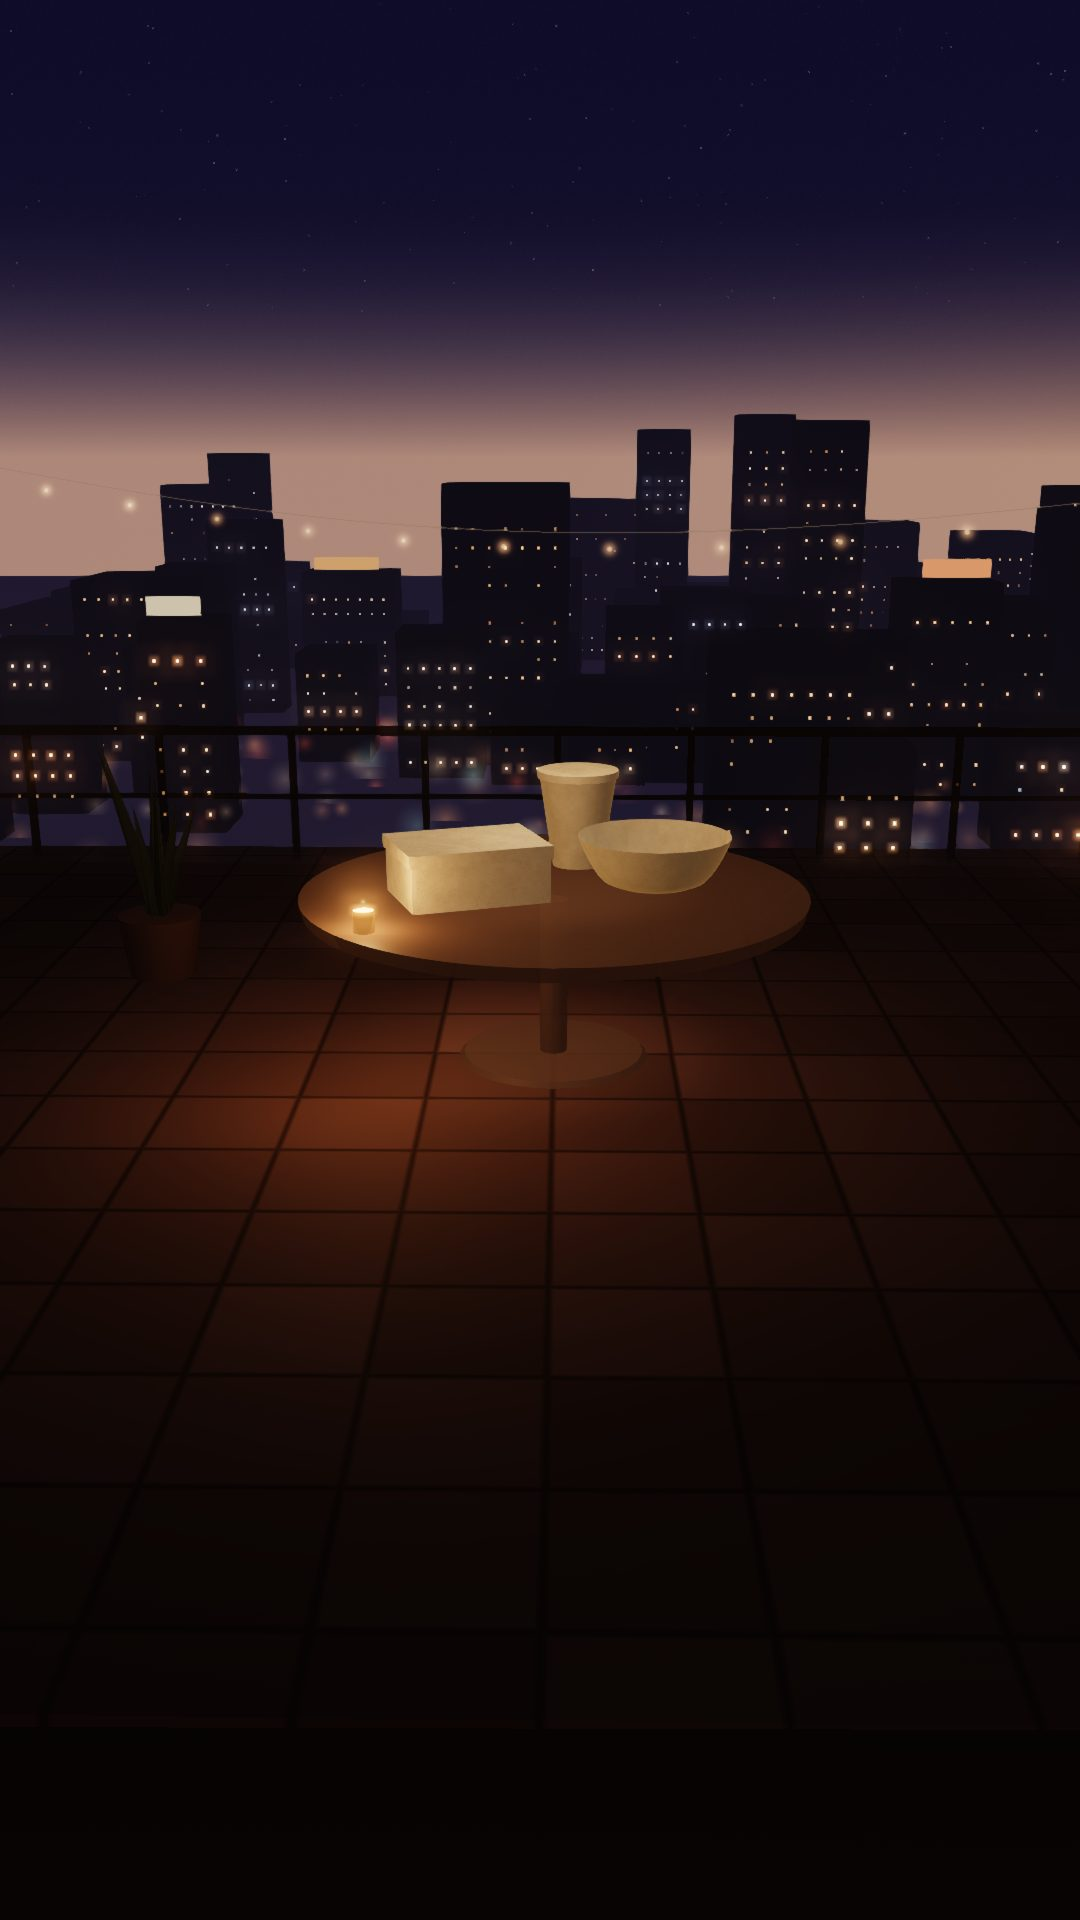
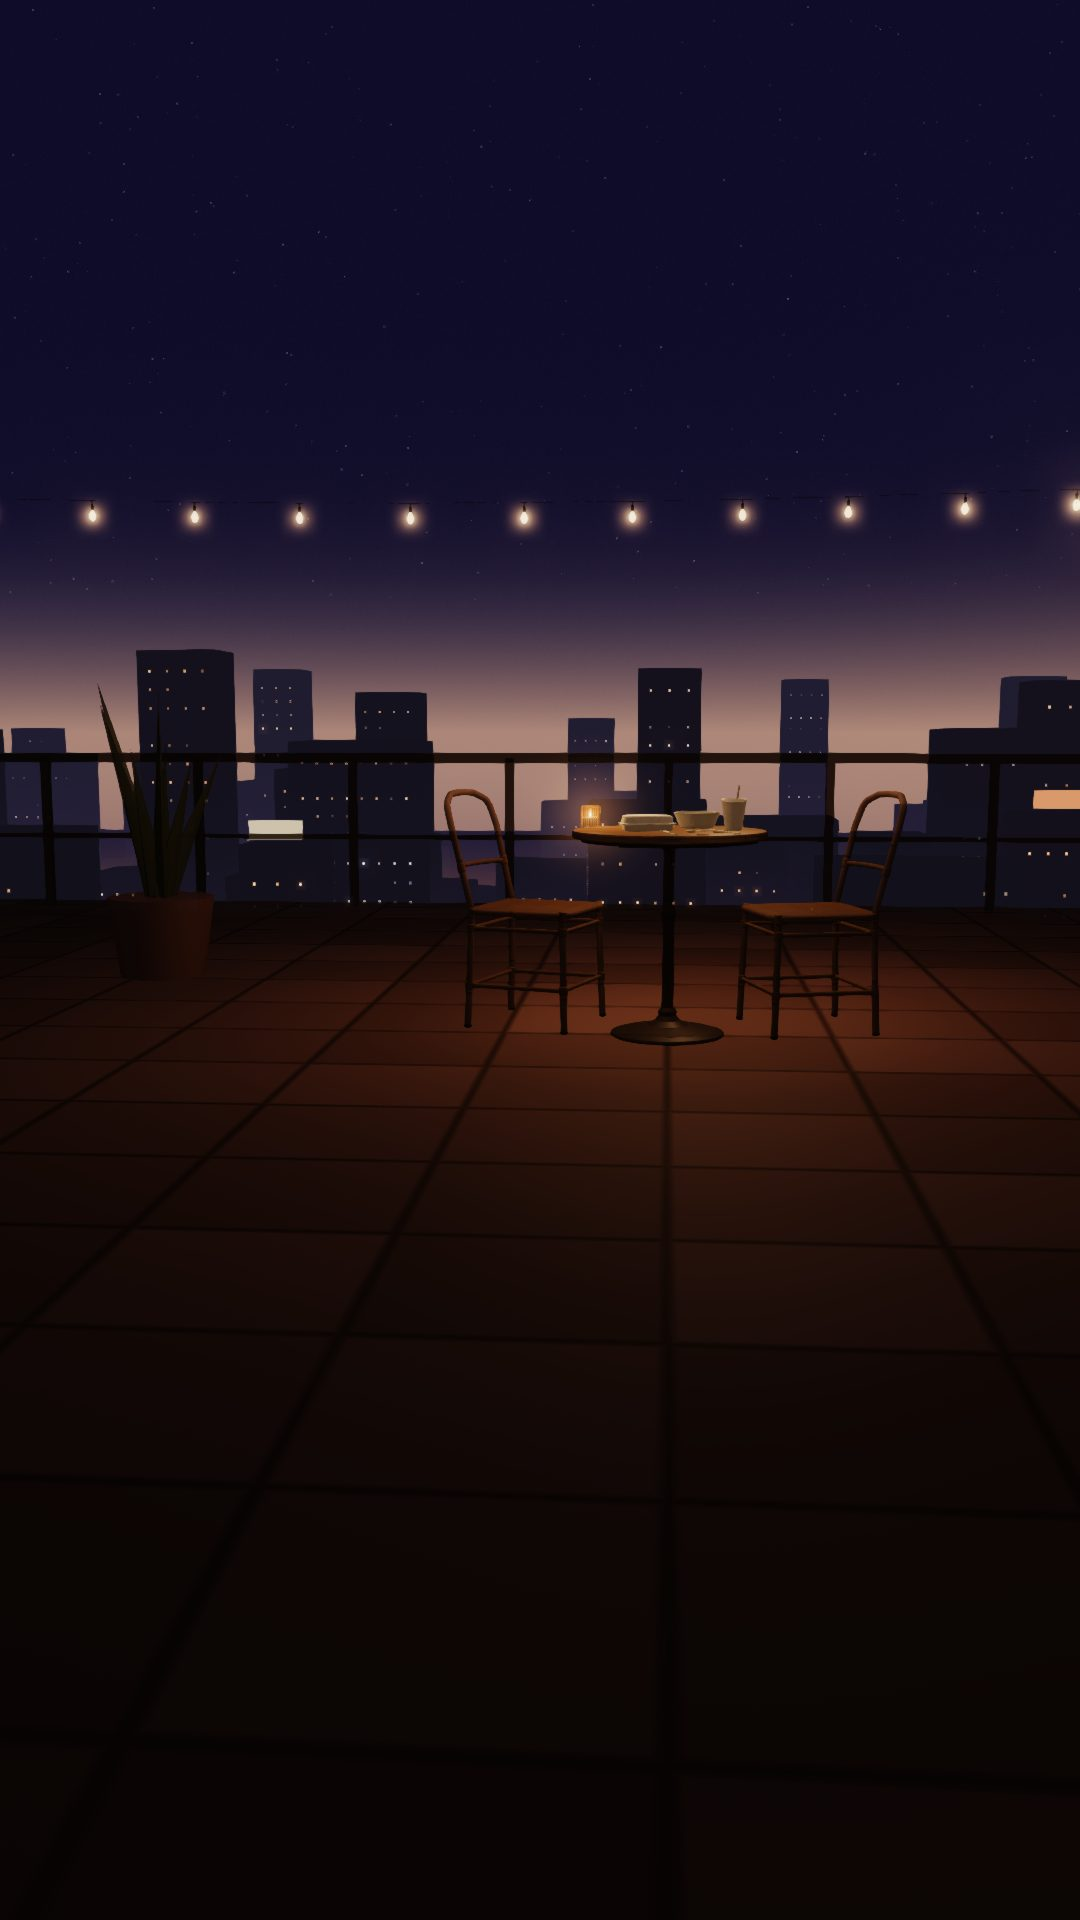
feat: blender models in the film, final renders and stills

diff --git a/README.md b/README.md
@@ -40,7 +40,7 @@ Then open <http://127.0.0.1:5173>. (Opening the files straight from disk does no
 node --test
 ```
 
-The tests cover the prices, bag, shipping and impact maths (`shop.js`), the film timeline (`timeline.js`) and the shared parts every page must have.
+The tests cover the prices, bag, shipping and impact maths (`shop.js`), the film timeline (`timeline.js`), the film tiers and flags (`tiers.js`), the model budget (`tests/models.test.mjs`) and the shared parts every page must have.
 
 ## Deploy on Vercel
 
@@ -51,24 +51,35 @@ The tests cover the prices, bag, shipping and impact maths (`shop.js`), the film
 
 ## Recording the film for the video
 
-The Home film can be switched with a URL flag:
+The Home film picks one of three detail tiers:
+
+- **Low** has no post-processing and fewer particles. Phones, touch devices, narrow screens, devices with 4 GB of memory or less, and integrated GPUs (Intel HD/UHD/Iris, Radeon Vega and `M`-series, Mali, Adreno) start here.
+- **High** is the default on a desktop with a discrete GPU: post-processing, anti-aliasing and about ten times Low's particles.
+- **Ultra** is for recording. It is used only by `?film=video`: no anti-aliasing, about thirty times Low's particles, and the resolution of the capture window.
+
+If frames run slow, the live film steps down one level at a time (High, then High at pixel ratio 1, then Low, then the stills).
+
+The film is switched with URL flags:
 
 - `index.html?film=off` shows the four still images instead of the 3D film.
-- `index.html?film=video` is for screen-capture tools. It turns off anti-aliasing, skips the speed check and stops the scroll loop, so the capture tool draws each frame itself by calling `window.scFilm.render(p, t)` (`p` is scroll progress from 0 to 1, `t` is time in seconds).
+- `index.html?film=video&p=0.37&t=2` is for screen-capture tools. It uses Ultra, skips the speed check, stops the scroll loop and waits until the models and post-processing have loaded. The capture tool then draws each frame itself by calling `window.scFilm.render(p, t)` (`p` is scroll progress from 0 to 1, `t` is time in seconds). `p` and `t` in the URL set the first frame. Add `&tier=low` to capture the phone look.
+- `index.html?film=bench` plays the film from start to end in 20 seconds with no frame skipping and no step-downs, to measure frame times.
 
-The film also turns itself off (and shows the stills) when the visitor prefers reduced motion, the device is too slow (checked at the start and again throughout the visit; it first drops to a lower resolution), WebGL is missing or the Three.js download fails.
+The film also turns itself off (and shows the stills) when the visitor prefers reduced motion, the device is too slow (checked at the start and again throughout the visit), WebGL is missing or the Three.js download fails.
 
-## The still images (ChatGPT step)
+## The 3D models
 
-The stills are SVG placeholders for now. To replace them:
+The hut, the farmer, the packaging (box, bowl, cup, cutlery, straw) and the café (table, chairs, bulbs) are Blender models in `models/*.glb`, loaded by the film. They are built by Python scripts in `blender/` run in Blender without its window, and the `.glb` files are committed, so you only need Blender to change a model. `docs/blender.md` has the setup and the rebuild commands.
 
-1. Open `docs/image-prompts.md` and paste each scene's prompt into ChatGPT.
-2. Save each scene twice: a 16:9 image as `images/scene-N.jpg` and a 9:16 image as `images/scene-N-tall.jpg` (N is 1 to 4). Keep each under about 300 KB.
-3. That's it. The page uses the JPGs when they exist and falls back to `images/scene-N.svg` when they don't.
+`tests/models.test.mjs` keeps the models inside their budget (1.5 MB and 200,000 triangles in total) and checks the node names the film looks up. A model that fails to load is left out and the film still plays.
+
+## The still images
+
+The stills are renders of the Ultra film at four points (`p` 0.12, 0.37, 0.62 and 0.95): a 16:9 image as `images/scene-N.jpg` and a 9:16 image as `images/scene-N-tall.jpg` (N is 1 to 4), each under about 350 KB. To replace them, capture `?film=video&p=...` at 1920×1080 and 1080×1920 and save the JPGs under those names. The page falls back to `images/scene-N.svg` if a JPG is missing.
 
 ## Credits
 
 - [Three.js](https://threejs.org) r170 (MIT licence), loaded from jsDelivr, draws the Home film.
 - Fonts: Solway and Figtree from Google Fonts (SIL Open Font License).
 - Facts and sources: IQAir, GIZ Thailand (Thai-German Cooperation) and the SEED profile of Fang Thai Factory. Each source is linked on `impact.html`.
-- The still images are made with ChatGPT from the prompts in `docs/image-prompts.md`.
+- The 3D models (hut, farmer, packaging, café) are our own work, built from the scripts in `blender/`, and so are the still images, rendered from the film.
